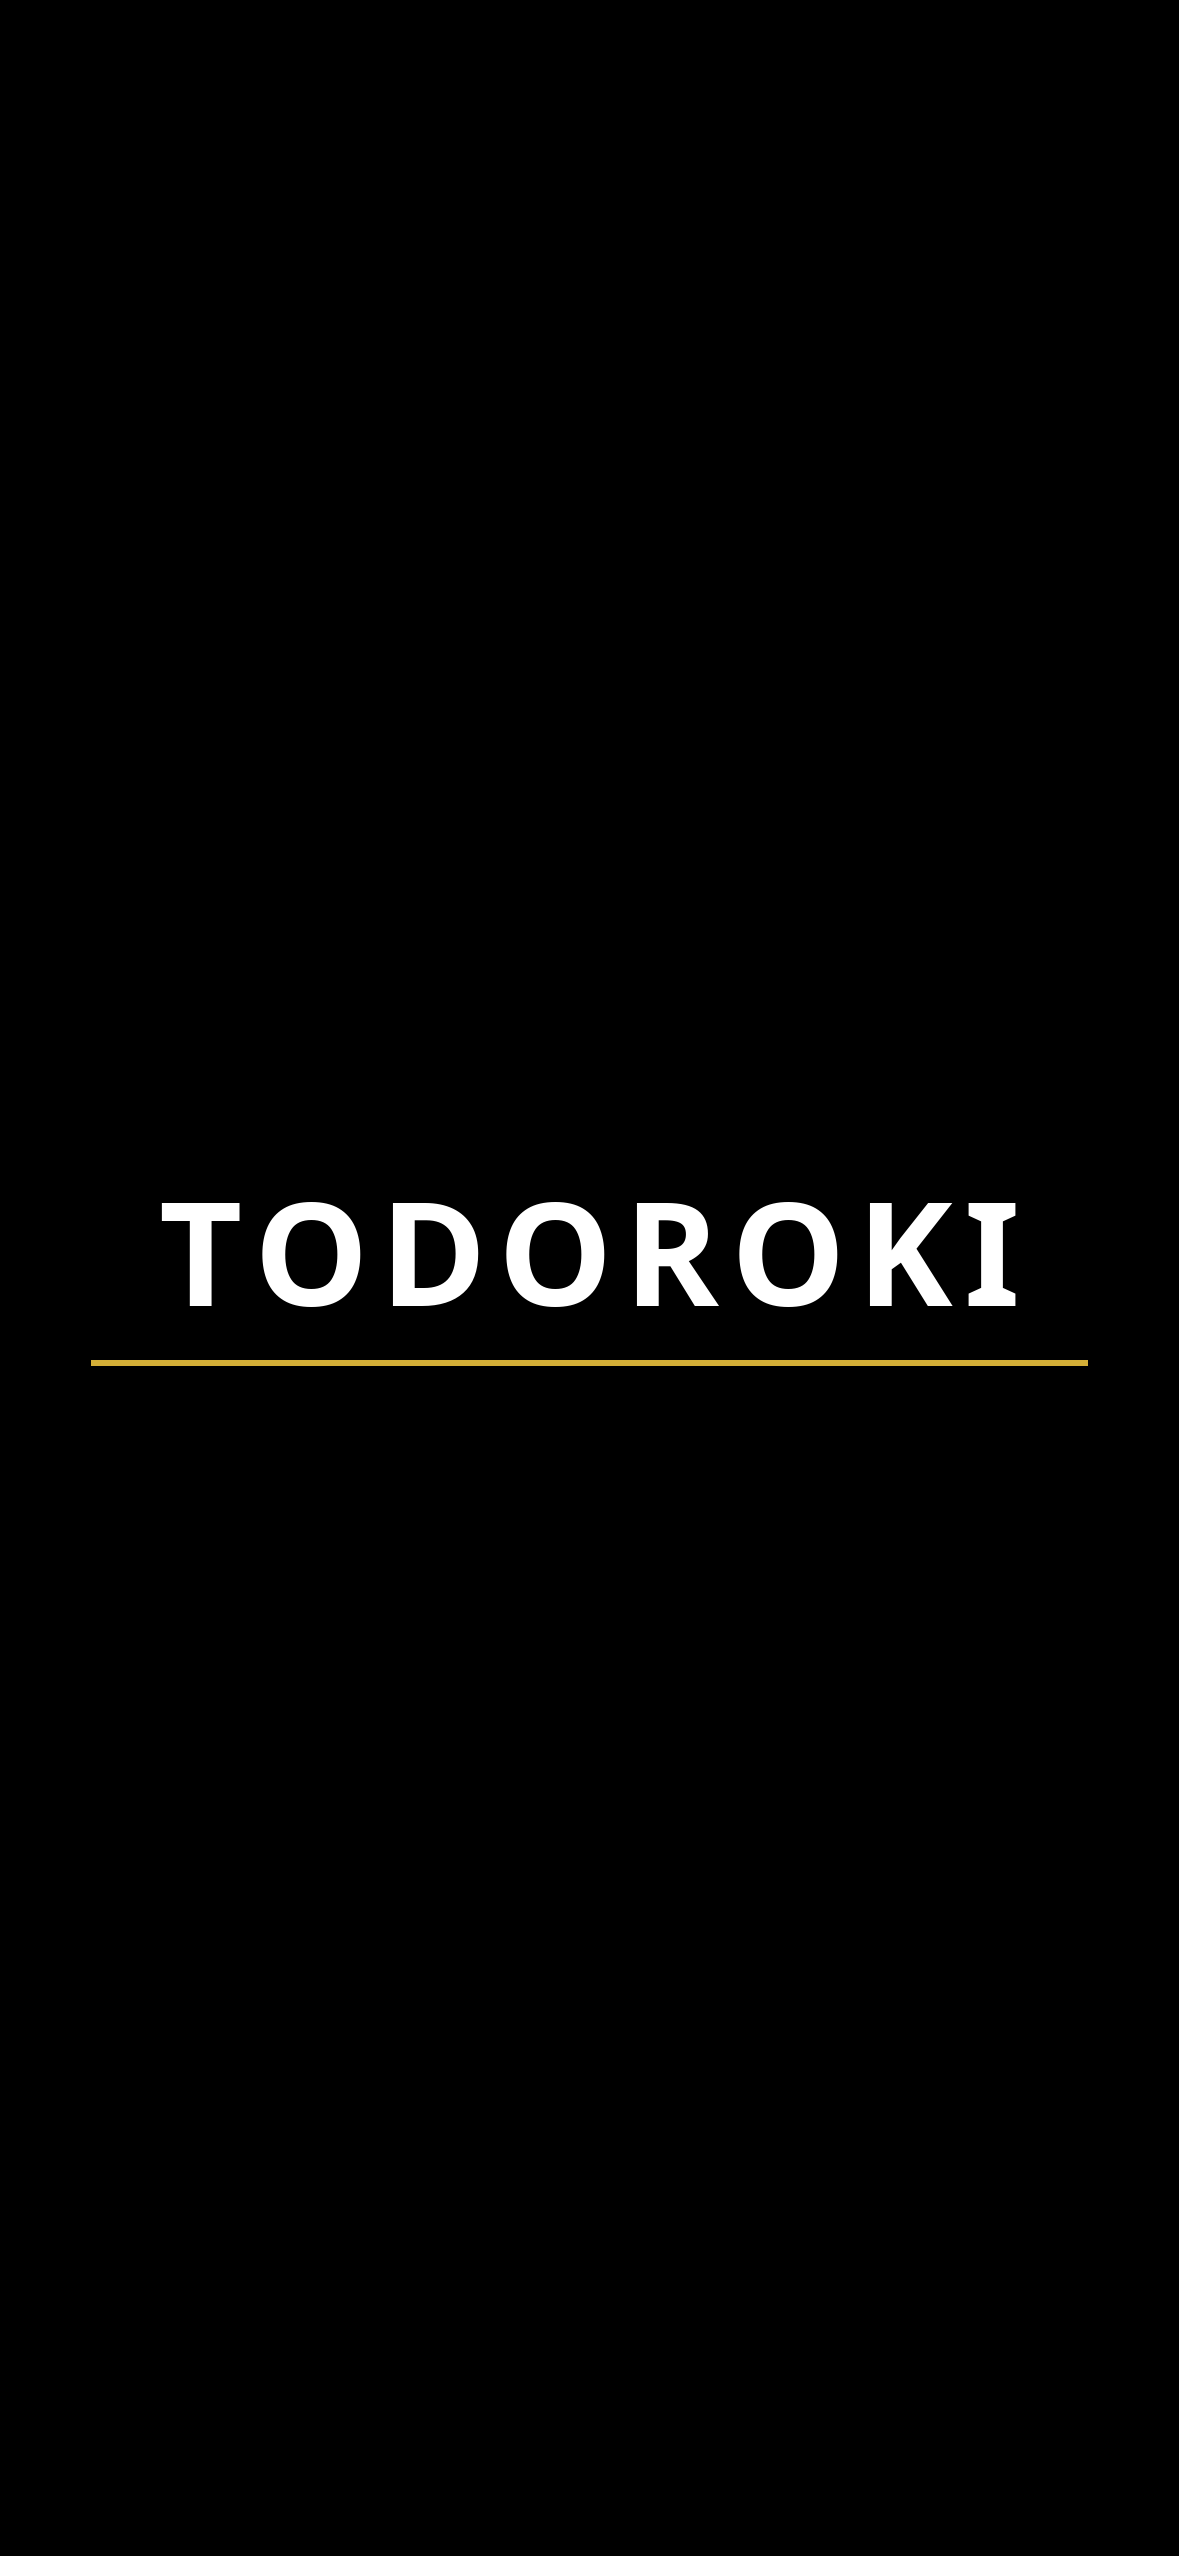
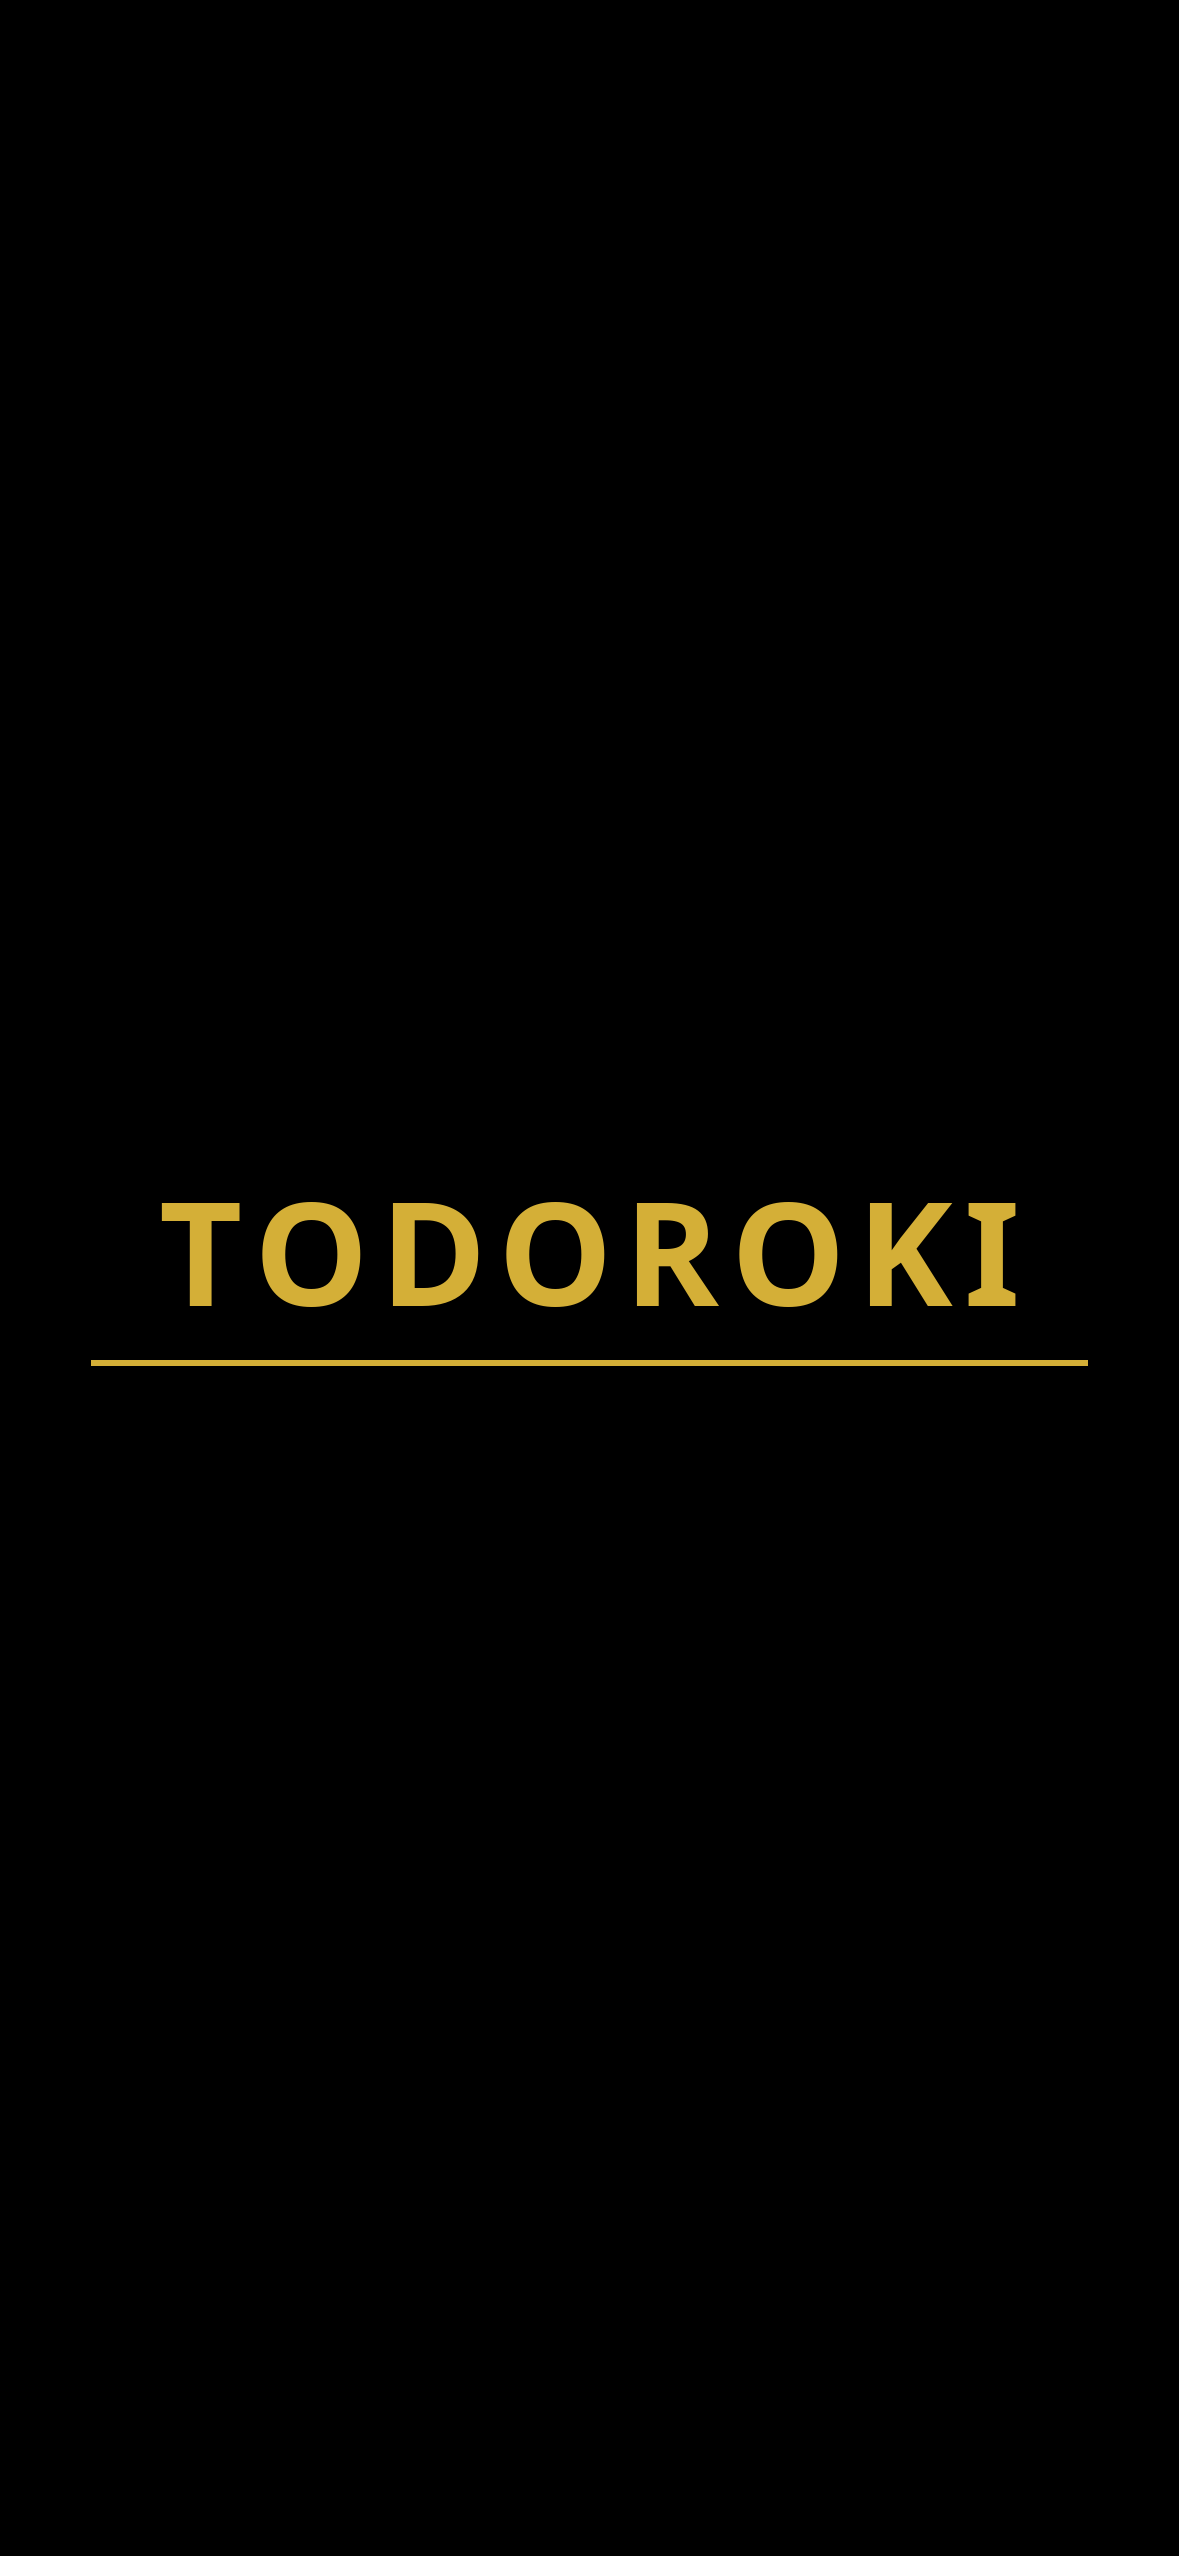
Use brand gold for the launch wordmark

Changed region(s): [[0.3359, 0.4636, 0.7939, 0.5254], [0.1221, 0.4636, 0.3053, 0.5254], [0.8244, 0.4636, 0.855, 0.5254]]

diff --git a/app/index.html b/app/index.html
@@ -9,7 +9,7 @@
   #td-splash:not([hidden]){position:fixed;inset:0;z-index:9999;display:grid;place-items:center;background:#000;color:#fff;pointer-events:none}
 }
 .td-splash-content{width:min(90vw,560px);text-align:center}
-.td-splash-title{font-family:-apple-system,BlinkMacSystemFont,"Segoe UI","Noto Sans JP",sans-serif;font-size:clamp(48px,11vw,100px);font-weight:700;letter-spacing:.08em;line-height:1.1;color:#fff}
+.td-splash-title{font-family:-apple-system,BlinkMacSystemFont,"Segoe UI","Noto Sans JP",sans-serif;font-size:clamp(48px,11vw,100px);font-weight:700;letter-spacing:.08em;line-height:1.1;color:#d4af37}
 .td-splash-line{height:2px;margin:16px auto 0;width:94%;background:#d4af37}
 </style></head><body>
 <div id="td-splash" hidden aria-hidden="true"><div class="td-splash-content"><div class="td-splash-title">TODOROKI</div><div class="td-splash-line"></div></div></div>

diff --git a/index.html b/index.html
@@ -470,7 +470,7 @@ footer {
   #td-splash:not([hidden]){position:fixed;inset:0;z-index:9999;display:grid;place-items:center;background:#000;color:#fff;pointer-events:none}
 }
 .td-splash-content{width:min(90vw,560px);text-align:center}
-.td-splash-title{font-family:-apple-system,BlinkMacSystemFont,"Segoe UI","Noto Sans JP",sans-serif;font-size:clamp(48px,11vw,100px);font-weight:700;letter-spacing:.08em;line-height:1.1;color:#fff}
+.td-splash-title{font-family:-apple-system,BlinkMacSystemFont,"Segoe UI","Noto Sans JP",sans-serif;font-size:clamp(48px,11vw,100px);font-weight:700;letter-spacing:.08em;line-height:1.1;color:#d4af37}
 .td-splash-line{height:2px;margin:16px auto 0;width:94%;background:#d4af37}
 </style>
 </head>
